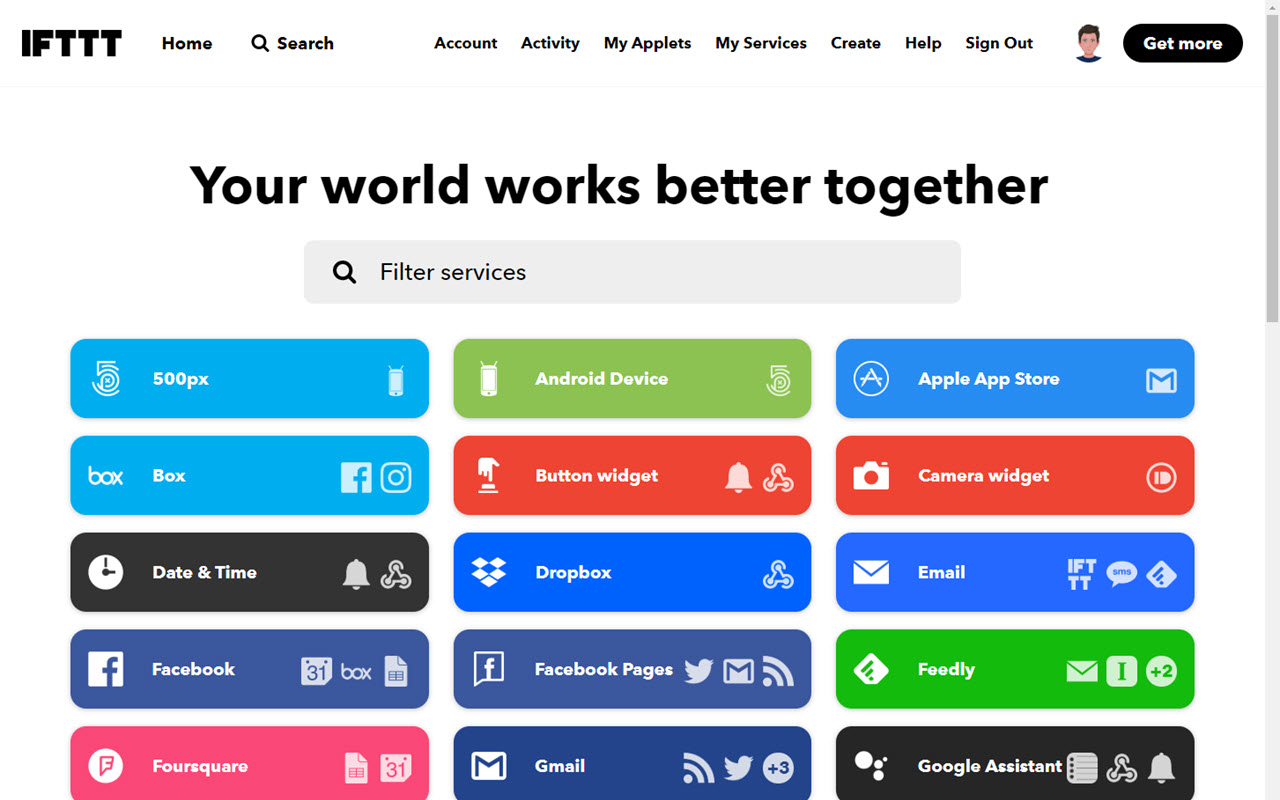
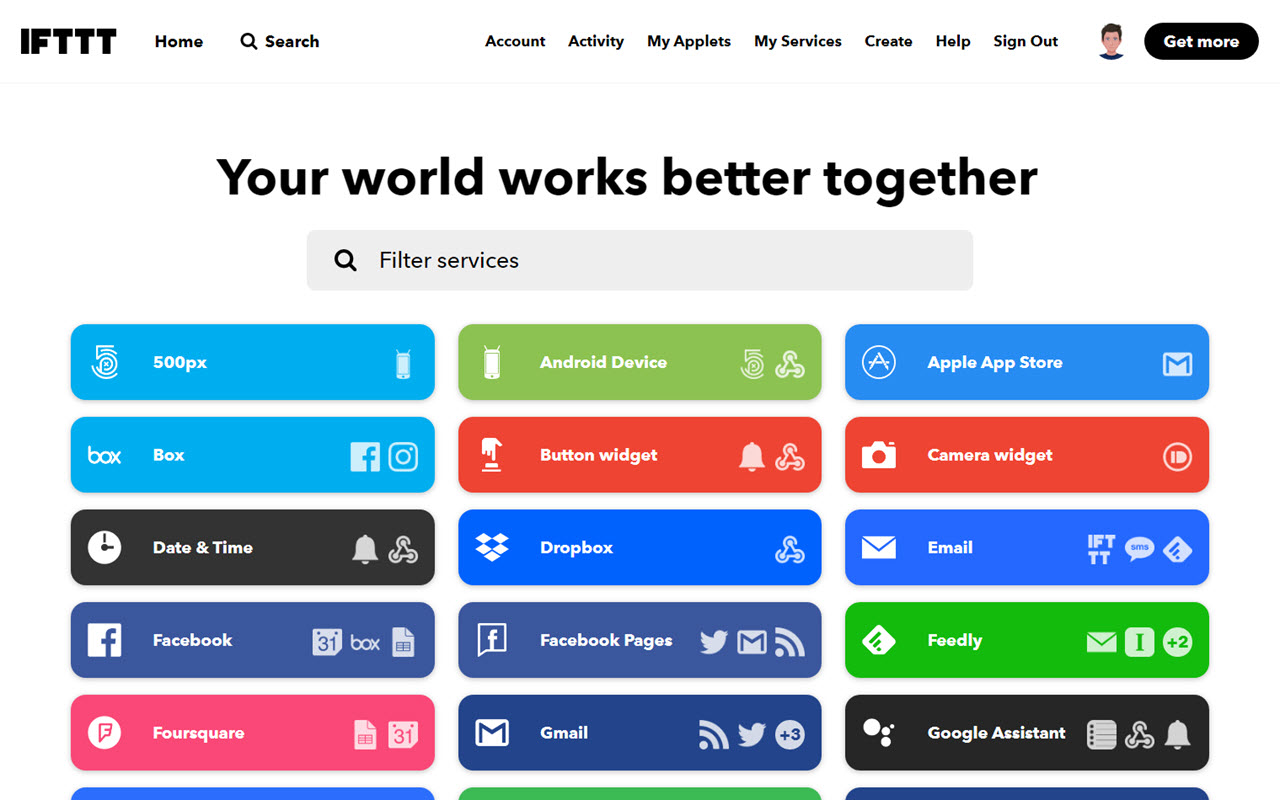
Added screenshot of My Services, Updated screenshot of Home Page

diff --git a/README.md b/README.md
@@ -12,3 +12,5 @@ This project is open source. If you'd like to contribute, please do so. I would 
 ## Screenshots
 
 ![Home Page](Screenshots/Screenshot1.jpg "Home Page")
+
+![My Services](Screenshots/Screenshot2.jpg "My Services")
